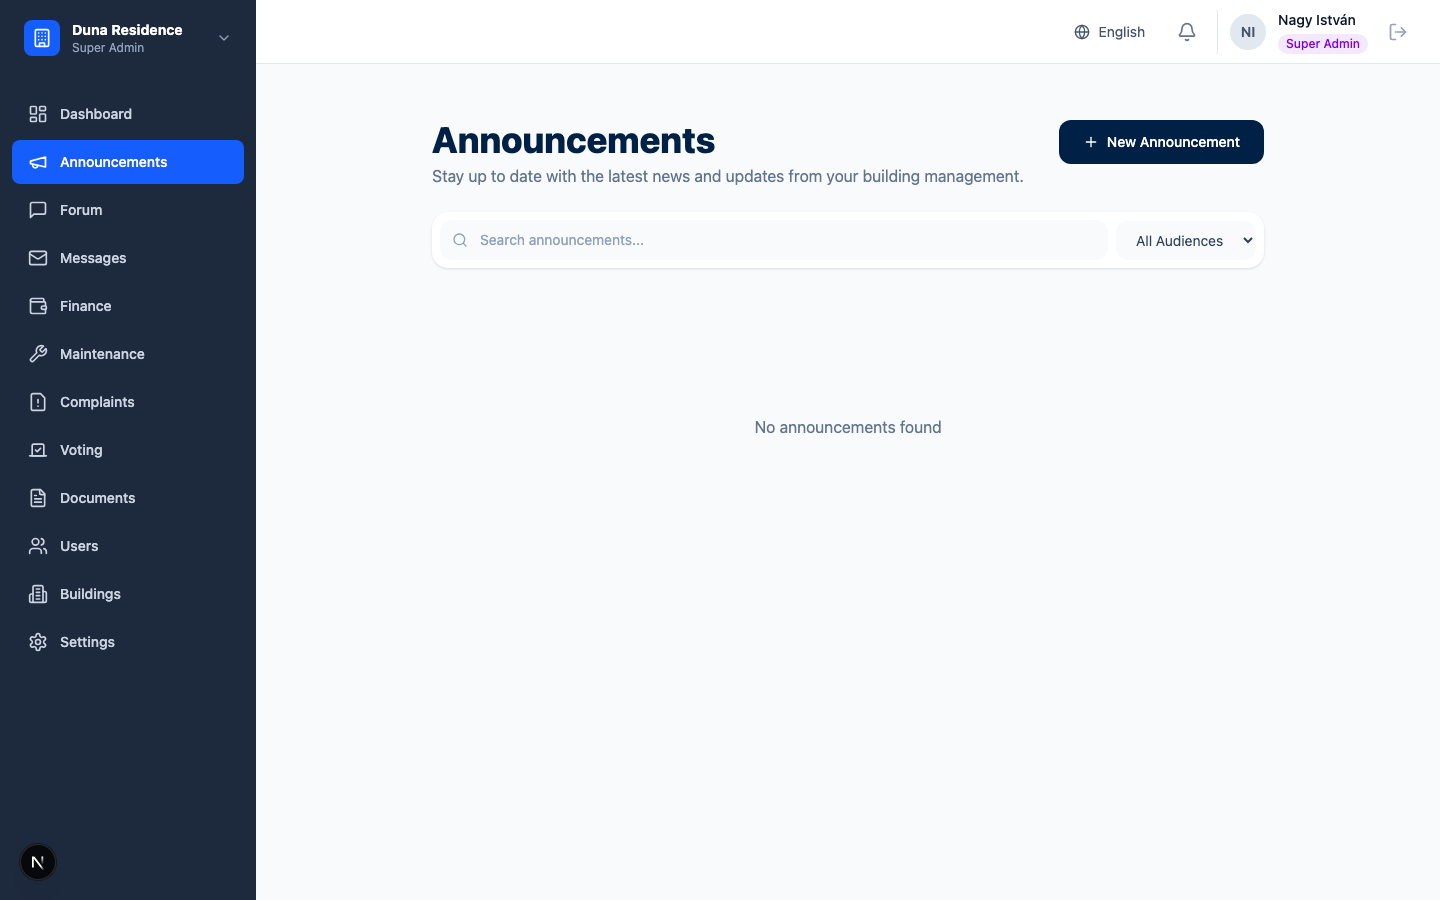
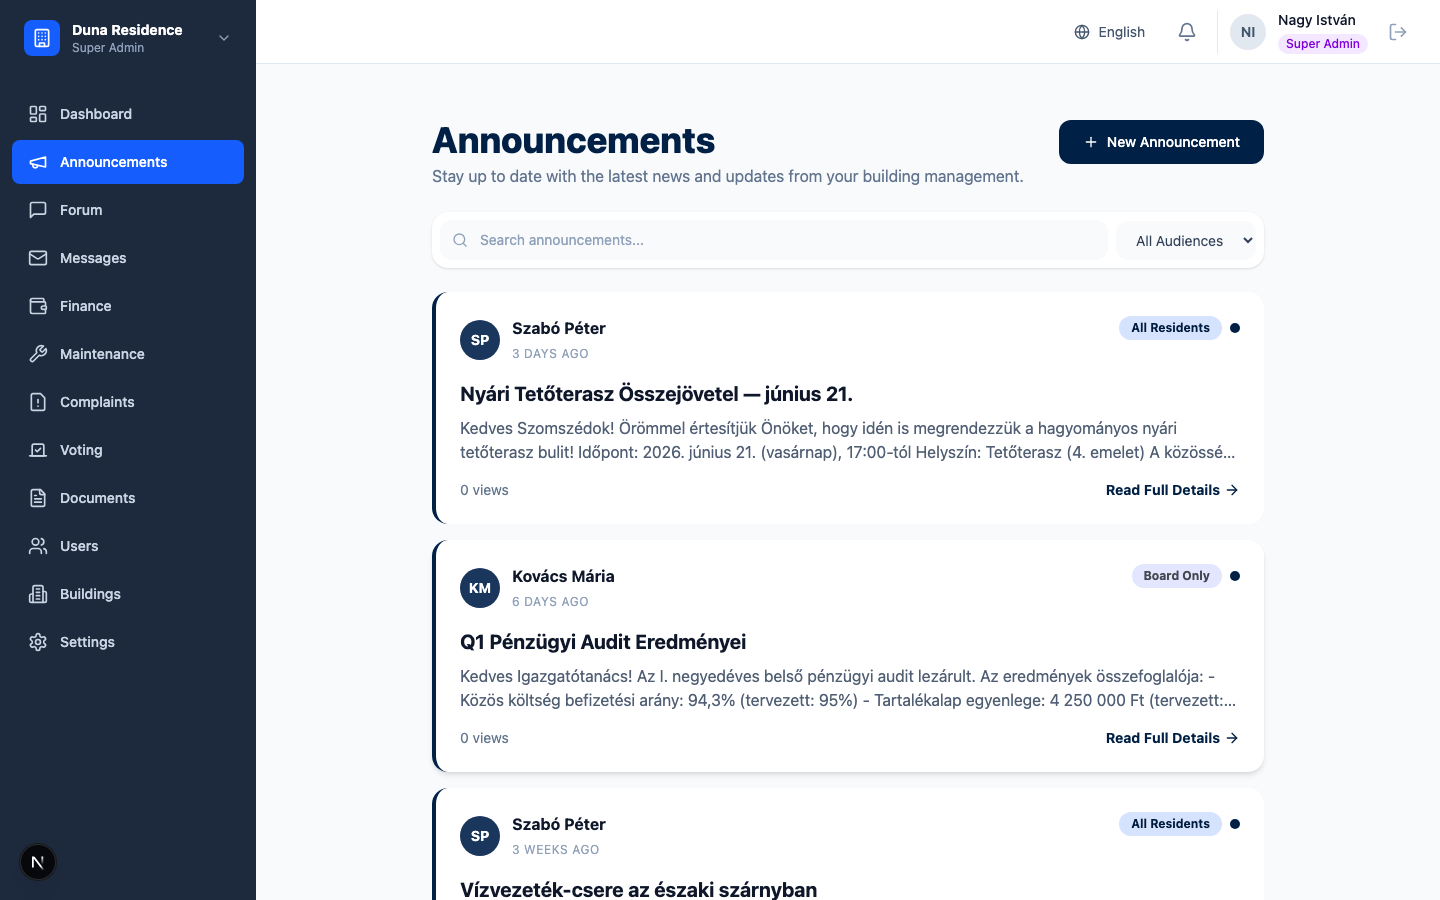
feat: language switcher on public pages, mock data for screenshots
- Add globe icon language toggle to public nav (landing, pricing pages)
- Seed realistic mock data: 4 announcements, 3 forum topics with replies,
  4 maintenance tickets, 30 monthly charges, 2 complaints, 1 meeting, 4 documents
- Retake all 9 screenshots with populated data

diff --git a/src/components/public/public-nav.tsx b/src/components/public/public-nav.tsx
@@ -1,15 +1,28 @@
 "use client";
 
 import { useState } from "react";
-import { useTranslations } from "next-intl";
+import { useTranslations, useLocale } from "next-intl";
+import { usePathname, useRouter } from "next/navigation";
 import { useAuth } from "@/hooks/use-auth";
-import { Building2, Menu, X } from "lucide-react";
+import { Building2, Menu, X, Globe } from "lucide-react";
 import Link from "next/link";
 
 export function PublicNav() {
   const t = useTranslations();
   const { isAuthenticated } = useAuth();
+  const locale = useLocale();
+  const pathname = usePathname();
+  const router = useRouter();
   const [menuOpen, setMenuOpen] = useState(false);
+
+  function switchLocale() {
+    const newLocale = locale === "hu" ? "en" : "hu";
+    const segments = pathname.split("/");
+    if (segments.length > 1 && ["hu", "en"].includes(segments[1])) {
+      segments[1] = newLocale;
+    }
+    router.push(segments.join("/") || "/");
+  }
 
   return (
     <nav className="sticky top-0 z-50 border-b border-slate-200 bg-white/95 backdrop-blur-sm">
@@ -36,6 +49,15 @@ export function PublicNav() {
           >
             {t("nav.pricing")}
           </Link>
+
+          <button
+            onClick={switchLocale}
+            className="flex items-center gap-1 text-sm font-medium text-slate-500 transition hover:text-[#002045]"
+            title={locale === "hu" ? "Switch to English" : "Váltás magyarra"}
+          >
+            <Globe className="h-4 w-4" />
+            {locale === "hu" ? "English" : "Magyar"}
+          </button>
 
           {isAuthenticated ? (
             <Link
